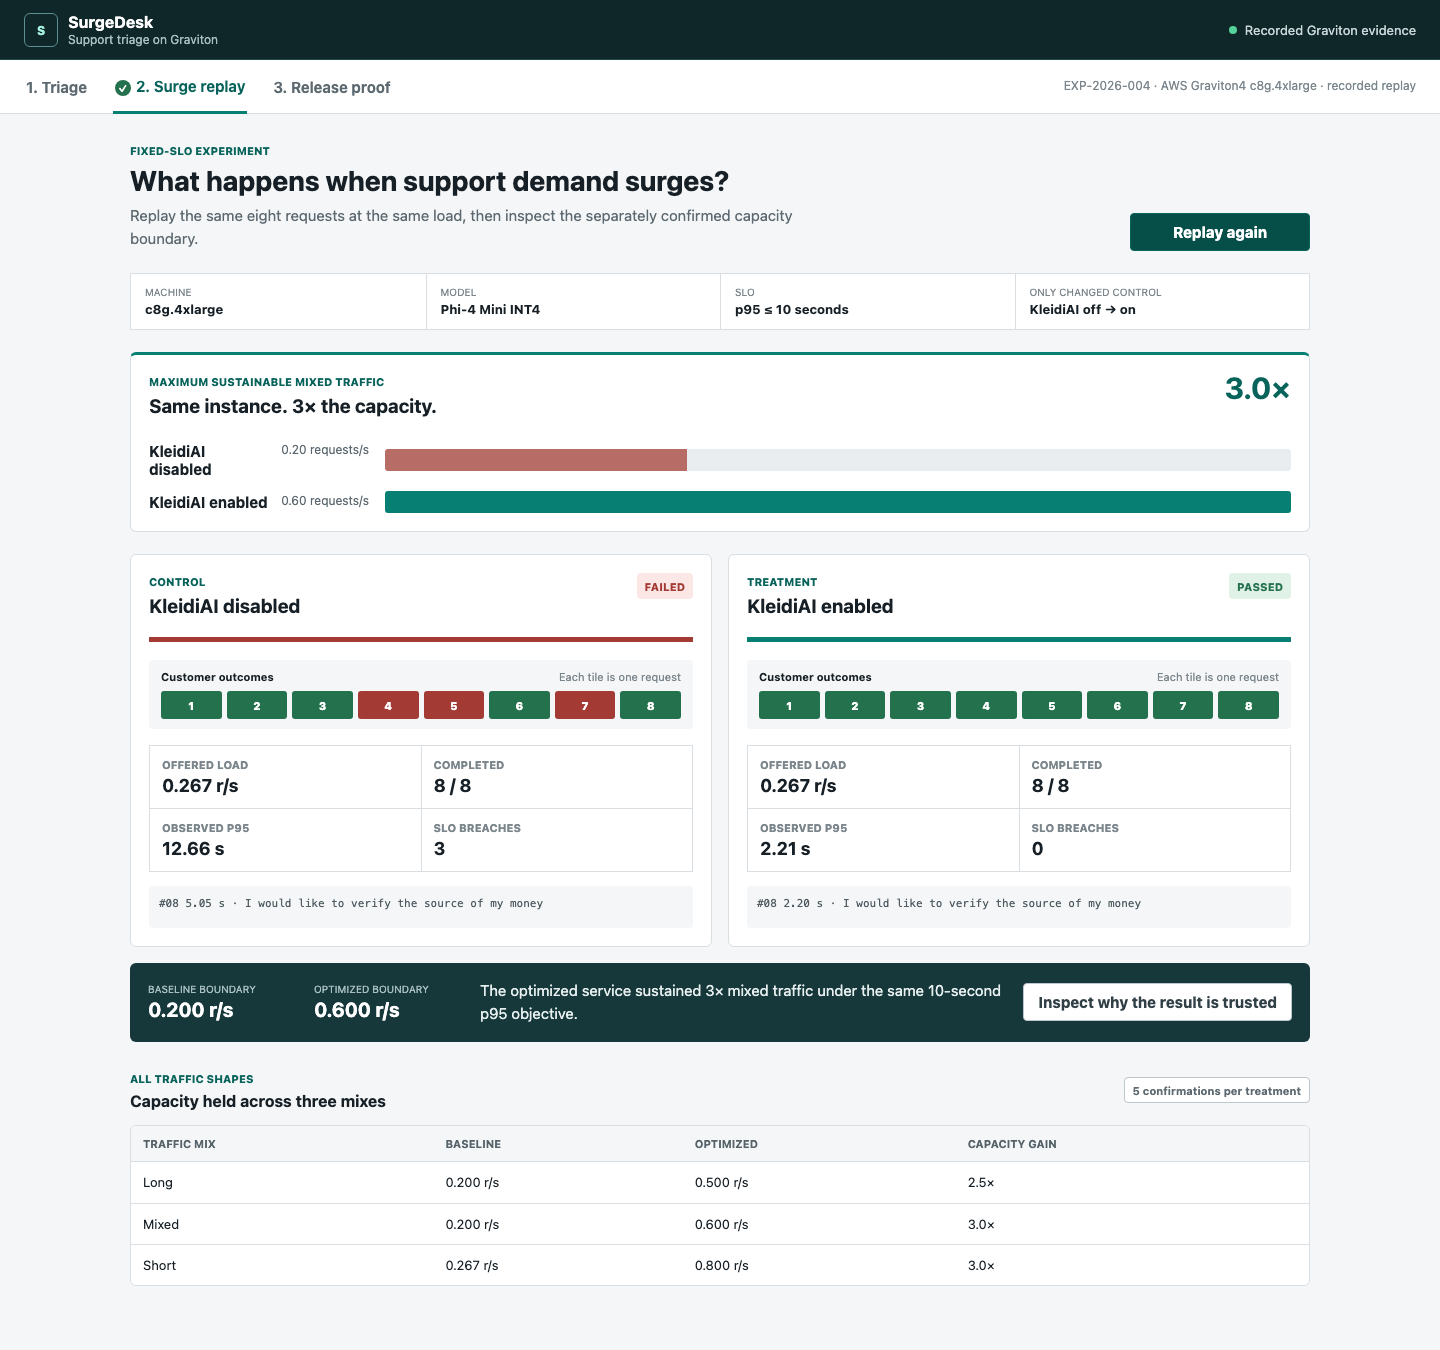
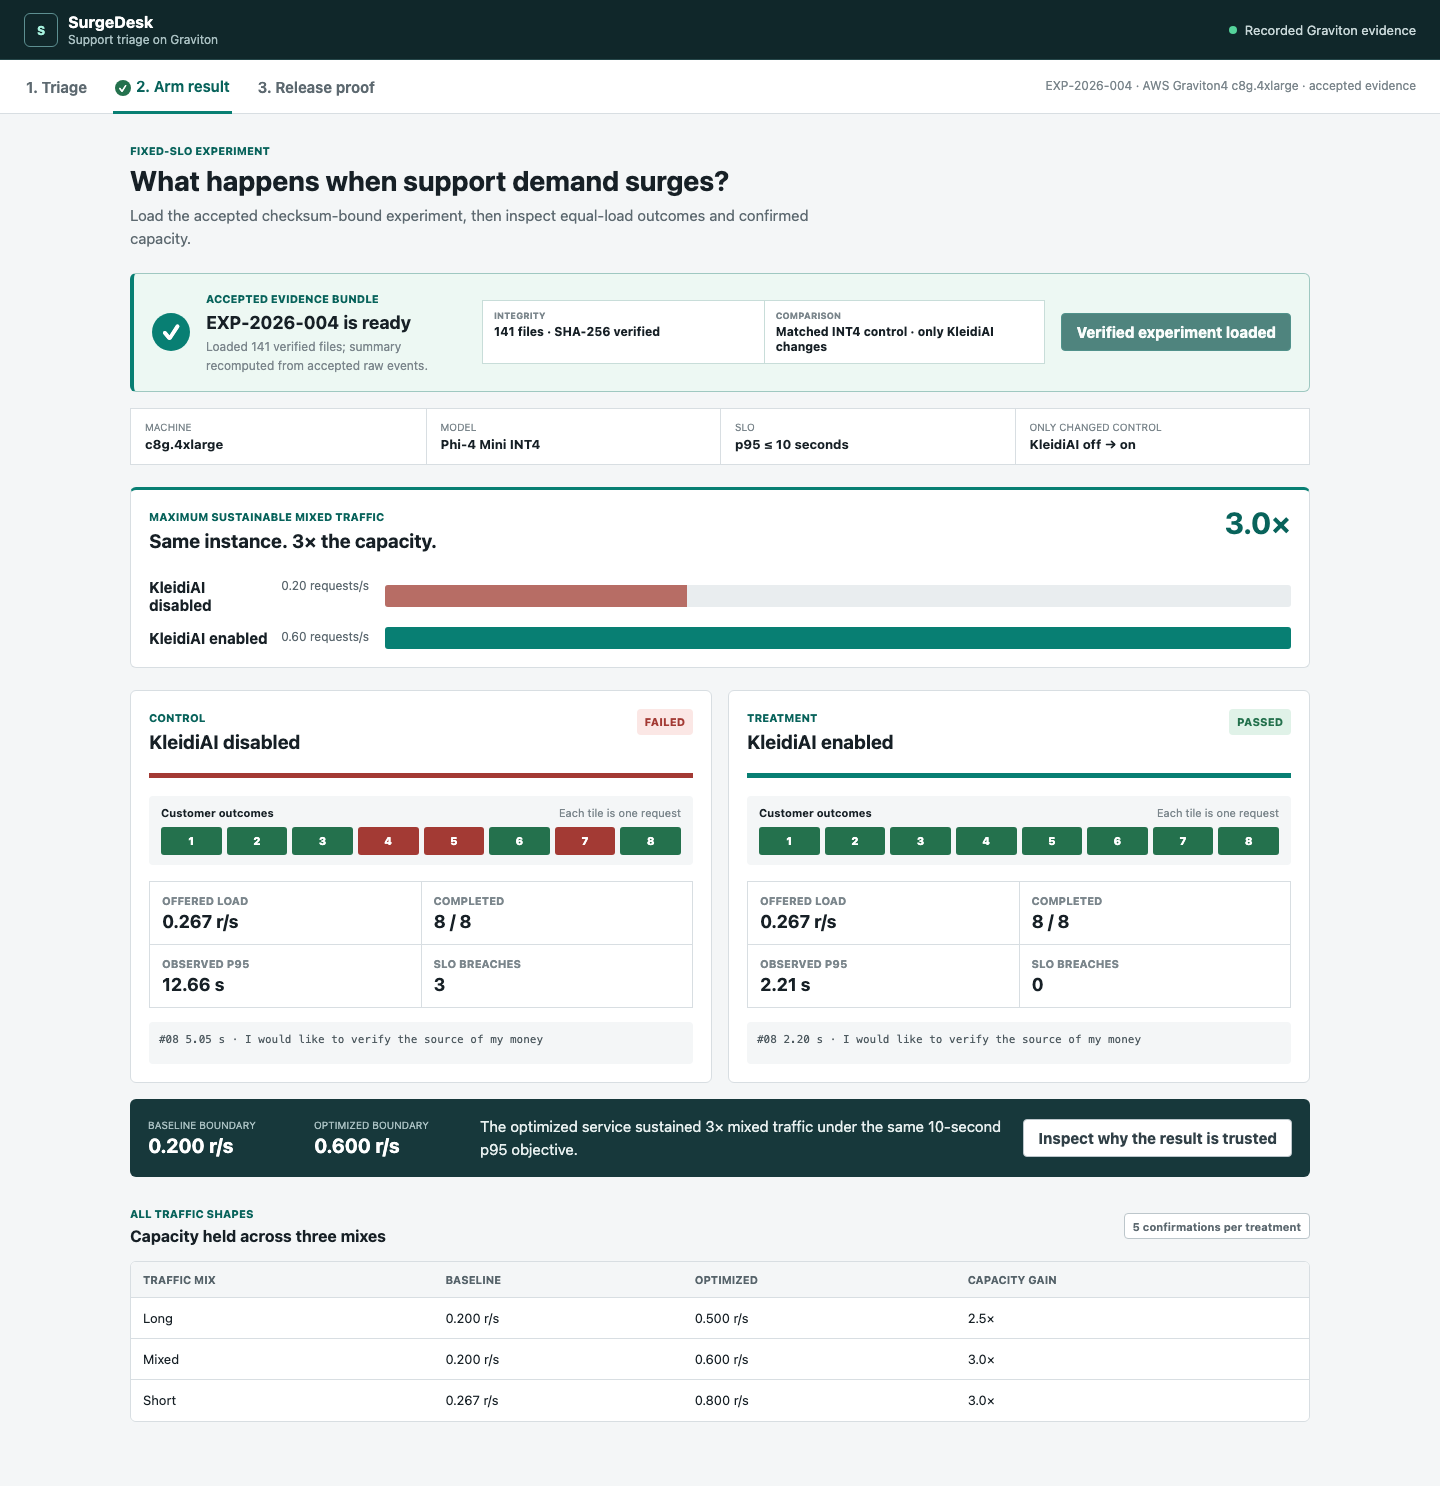
feat: reveal accepted experiment evidence
Replace the staged replay animation with an explicit, instantaneous load of checksum-verified EXP-2026-004 evidence. Keep the Arm result hidden until the presenter loads it, expose matched-control provenance, and align the recording script and judge guide with the honest demo flow.

diff --git a/surgedesk/index.html b/surgedesk/index.html
@@ -27,7 +27,7 @@
   <nav class="view-tabs" aria-label="SurgeDesk views">
     <div role="tablist" aria-label="Demo workflow">
       <button id="tab-workspace" role="tab" aria-selected="true" aria-controls="view-workspace" data-view="workspace">1. Triage</button>
-      <button id="tab-surge" role="tab" aria-selected="false" aria-controls="view-surge" data-view="surge">2. Surge replay</button>
+      <button id="tab-surge" role="tab" aria-selected="false" aria-controls="view-surge" data-view="surge">2. Arm result</button>
       <button id="tab-proof" role="tab" aria-selected="false" aria-controls="view-proof" data-view="proof">3. Release proof</button>
     </div>
     <p id="demo-source">Loading accepted evidence…</p>
@@ -116,7 +116,7 @@
 
           <div id="review-complete" class="workflow-handoff" role="status" hidden>
             <div><strong id="review-complete-title">Ticket routed</strong><span>Decision recorded in the audit trail.</span></div>
-            <button class="secondary-button" type="button" data-go-surge>Continue to surge replay</button>
+            <button class="secondary-button" type="button" data-go-surge>Continue to Arm result</button>
           </div>
 
           <section class="recent-section" aria-labelledby="recent-title">
@@ -146,10 +146,23 @@
           <div>
             <p class="eyebrow">Fixed-SLO experiment</p>
             <h1>What happens when support demand surges?</h1>
-            <p>Replay the same eight requests at the same load, then inspect the separately confirmed capacity boundary.</p>
+            <p>Load the accepted checksum-bound experiment, then inspect equal-load outcomes and confirmed capacity.</p>
           </div>
-          <button id="run-replay" class="primary-button replay-button" type="button">Run recorded surge</button>
         </header>
+
+        <section id="evidence-loader" class="evidence-loader" aria-labelledby="evidence-loader-title">
+          <div class="evidence-seal" aria-hidden="true">✓</div>
+          <div class="evidence-identity">
+            <p class="eyebrow">Accepted evidence bundle</p>
+            <h2 id="evidence-loader-title"><span id="evidence-experiment-id">—</span> is ready</h2>
+            <p id="evidence-load-note" aria-live="polite">The browser will derive this view from checked-in raw request events. It will not simulate a live benchmark.</p>
+          </div>
+          <dl class="evidence-facts">
+            <div><dt>Integrity</dt><dd id="evidence-checksum-status">Verifying…</dd></div>
+            <div><dt>Comparison</dt><dd id="evidence-comparison">Matched control</dd></div>
+          </dl>
+          <button id="load-experiment" class="primary-button replay-button" type="button">Load verified experiment</button>
+        </section>
 
         <div class="experiment-strip" aria-label="Experiment controls">
           <div><span>Machine</span><strong id="experiment-machine">c8g.4xlarge</strong></div>
@@ -158,6 +171,7 @@
           <div><span>Only changed control</span><strong>KleidiAI off → on</strong></div>
         </div>
 
+        <div id="experiment-results" class="experiment-results" hidden>
         <section class="capacity-reveal" aria-labelledby="capacity-title">
           <header class="section-heading">
             <div>
@@ -195,7 +209,7 @@
               <div><dt>Observed p95</dt><dd id="baseline-p95">—</dd></div>
               <div><dt>SLO breaches</dt><dd id="baseline-breaches">0</dd></div>
             </dl>
-            <p id="baseline-event" class="event-line">Run not started.</p>
+            <p id="baseline-event" class="event-line">Accepted run not loaded.</p>
           </article>
 
           <article class="run-panel optimized-run" aria-labelledby="optimized-title">
@@ -214,7 +228,7 @@
               <div><dt>Observed p95</dt><dd id="optimized-p95">—</dd></div>
               <div><dt>SLO breaches</dt><dd id="optimized-breaches">0</dd></div>
             </dl>
-            <p id="optimized-event" class="event-line">Run not started.</p>
+            <p id="optimized-event" class="event-line">Accepted run not loaded.</p>
           </article>
         </div>
 
@@ -237,6 +251,7 @@
             </table>
           </div>
         </section>
+        </div>
       </div>
     </section>
 

diff --git a/surgedesk/styles.css b/surgedesk/styles.css
@@ -158,6 +158,17 @@ tbody tr:last-child td { border-bottom: 0; }
 .page-heading h1 { font-size: 28px; }
 .page-heading p:last-child { max-width: 680px; margin: 0; }
 .replay-button { min-width: 180px; }
+.evidence-loader { display: grid; grid-template-columns: auto minmax(260px, 1fr) minmax(300px, auto) auto; align-items: center; gap: 16px; margin-bottom: 16px; padding: 16px 18px; border: 1px solid #9fc8c1; border-left: 4px solid var(--teal); background: #f4fbf9; border-radius: var(--radius); }
+.evidence-loader.loaded { background: #edf8f3; }
+.evidence-seal { display: grid; width: 38px; height: 38px; place-items: center; color: #fff; background: var(--teal); border-radius: 50%; font-size: 22px; font-weight: 800; }
+.evidence-identity h2 { margin: 2px 0 4px; font-size: 18px; }
+.evidence-identity > p:last-child { max-width: 580px; margin: 0; color: var(--subtle); font-size: 12px; }
+.evidence-facts { display: grid; grid-template-columns: repeat(2, minmax(130px, 1fr)); margin: 0; border: 1px solid #c8ddd9; background: #fff; }
+.evidence-facts div { min-width: 0; padding: 9px 11px; }
+.evidence-facts div + div { border-left: 1px solid #c8ddd9; }
+.evidence-facts dt { color: var(--subtle); font-size: 9px; text-transform: uppercase; }
+.evidence-facts dd { margin: 3px 0 0; font-size: 12px; font-weight: 750; overflow-wrap: anywhere; }
+.experiment-results[hidden] { display: none; }
 .experiment-strip { display: grid; grid-template-columns: repeat(4, 1fr); margin-bottom: 22px; border: 1px solid var(--line); background: #fff; }
 .experiment-strip div { min-width: 0; padding: 12px 14px; }
 .experiment-strip div + div { border-left: 1px solid var(--line); }
@@ -243,6 +254,8 @@ code, pre { font-family: ui-monospace, SFMono-Regular, Menlo, monospace; }
 .fatal-error { width: min(720px, calc(100% - 32px)); margin: 48px auto; padding: 24px; background: var(--red-soft); border: 1px solid #e0a39e; border-radius: var(--radius); }
 
 @media (max-width: 900px) {
+  .evidence-loader { grid-template-columns: auto 1fr; }
+  .evidence-facts, .evidence-loader .replay-button { grid-column: 2; }
   .workspace-shell { grid-template-columns: 210px minmax(0, 1fr); }
   .intake-workspace { padding: 24px; }
   .review-details { grid-template-columns: 1fr; gap: 10px; }
@@ -263,6 +276,11 @@ code, pre { font-family: ui-monospace, SFMono-Regular, Menlo, monospace; }
 }
 
 @media (max-width: 680px) {
+  .evidence-loader { grid-template-columns: 1fr; }
+  .evidence-seal { display: none; }
+  .evidence-facts, .evidence-loader .replay-button { grid-column: auto; }
+  .evidence-facts { grid-template-columns: 1fr; }
+  .evidence-facts div + div { border-top: 1px solid #c8ddd9; border-left: 0; }
   .app-header { height: auto; min-height: 60px; padding: 10px 14px; }
   .environment-status { font-size: 11px; }
   .view-tabs { min-height: 50px; padding: 0 12px; overflow-x: auto; }

diff --git a/src/armproof/demo/surgedesk.py b/src/armproof/demo/surgedesk.py
@@ -9,6 +9,7 @@ from pathlib import Path
 from typing import Any
 
 from armproof.demo.queue_guard import QueueGuard
+from armproof.evidence import verify_checksum_ledger
 
 
 DEMO_CASE_IDS = (
@@ -124,7 +125,17 @@ def _queue_guard(root: Path) -> tuple[QueueGuard, list[dict[str, str]]]:
 
 
 def build_surgedesk_payload(root: Path) -> dict[str, Any]:
-    evidence = root / "ops/evidence/EXP-2026-004/accepted/evidence/capacity/experiment"
+    accepted_evidence = root / "ops/evidence/EXP-2026-004/accepted/evidence"
+    checksum_result = verify_checksum_ledger(
+        accepted_evidence / "SHA256SUMS",
+        accepted_evidence,
+    )
+    if not checksum_result.passed:
+        raise ValueError(
+            "accepted evidence failed checksum verification: "
+            f"missing={checksum_result.missing}, mismatched={checksum_result.mismatched}"
+        )
+    evidence = accepted_evidence / "capacity/experiment"
     summary = _load_json(evidence / "summary.json")
     quality_enabled = _load_json(evidence / "quality/kleidiai-enabled.json")
     quality_disabled = _load_json(evidence / "quality/kleidiai-disabled.json")
@@ -216,7 +227,7 @@ def build_surgedesk_payload(root: Path) -> dict[str, Any]:
         "product": {
             "name": "SurgeDesk",
             "description": "Human-confirmed support triage on an Arm-optimized cloud AI service.",
-            "demo_mode": "recorded_evidence_replay",
+            "demo_mode": "accepted_evidence_load",
         },
         "routing_cases": routing_cases,
         "capacity": {"slo_ms": 10_000, "mixes": mixes},
@@ -274,6 +285,12 @@ def build_surgedesk_payload(root: Path) -> dict[str, Any]:
         },
         "provenance": {
             "experiment_id": "EXP-2026-004",
+            "evidence": {
+                "checksum_verified": checksum_result.passed,
+                "checksummed_files": checksum_result.checked,
+                "comparison": "matched_control",
+                "only_changed_control": "mlas.disable_kleidiai",
+            },
             "dataset": "BANKING77",
             "dataset_license": "CC-BY-4.0",
             "model": "Phi-4 Mini",

diff --git a/tests/surgedesk/test_demo_data.py b/tests/surgedesk/test_demo_data.py
@@ -59,6 +59,13 @@ class SurgeDeskPayloadTests(unittest.TestCase):
         self.assertFalse(proof["kleidiai_disabled_callchains"])
         self.assertEqual(proof["instance"], "c8g.4xlarge")
 
+    def test_demo_identifies_a_verified_matched_control_bundle(self) -> None:
+        evidence = self.payload["provenance"]["evidence"]
+        self.assertTrue(evidence["checksum_verified"])
+        self.assertEqual(evidence["checksummed_files"], 141)
+        self.assertEqual(evidence["comparison"], "matched_control")
+        self.assertEqual(evidence["only_changed_control"], "mlas.disable_kleidiai")
+
 
 if __name__ == "__main__":
     unittest.main()

diff --git a/submission/DEMO_SCRIPT.md b/submission/DEMO_SCRIPT.md
@@ -1,7 +1,7 @@
 # Three-Minute Demo Script
 
-Target duration: **2:40-2:50**. Do not exceed 3:00. Do not wait for the surge
-animation during the recording.
+Target duration: **2:40-2:50**. Do not exceed 3:00. Every visible result must
+be loaded or validated during the recording.
 
 ## Prepare Before Recording
 
@@ -12,18 +12,15 @@ animation during the recording.
    python3.12 scripts/serve_surgedesk.py --port 8765
    ```
 
-3. Open `http://127.0.0.1:8765/surgedesk/#surge`.
-4. Click **Run recorded surge** and wait for it to finish.
-5. Open `http://127.0.0.1:8765/surgedesk/#triage` in the same tab. The completed
-   surge state remains in memory.
-6. Select **Guard intervention** but do not load the suggestion yet.
-7. Open a terminal beside the browser with this command already typed:
+3. Open `http://127.0.0.1:8765/surgedesk/#triage`.
+4. Select **Guard intervention** but do not load the suggestion yet.
+5. Open a terminal beside the browser with this command already typed:
 
    ```bash
    armproof ci examples/armproof-reference/armproof.json
    ```
 
-8. Close notifications, hide bookmarks and enable Do Not Disturb. Record only
+6. Close notifications, hide bookmarks and enable Do Not Disturb. Record only
    the browser and terminal. Do not use copyrighted music.
 
 ## Exact Recording
@@ -54,23 +51,25 @@ the first viewport.
 > two-stage route reaches 86.75 percent, up 12.34 points. Every route remains
 > human-confirmed; the app shows the model's limit instead of hiding it.
 
-### 0:43-1:22 - The Arm Result, Without Waiting
+### 0:43-1:25 - The Arm Result, Loaded Honestly
 
-**Do:** Click **2. Surge replay**. The result is already complete. Point in
-this order: experiment strip, the two eight-request rows, p95 cells, 3.0x
-headline, and the three traffic-mix rows.
+**Do:** Click **2. Arm result**. Point briefly to `EXP-2026-004`, **141 files ·
+SHA-256 verified**, and **Matched INT4 control**. Click **Load verified
+experiment**. Point in this order: experiment strip, equal-load request rows,
+p95 cells, 3.0x headline and the three traffic-mix rows.
 
 **Say:**
 
-> Now the optimization. This is one c8g.4xlarge, one Phi-4 Mini INT4 model,
-> one ONNX Runtime GenAI build, 16 threads and the same 10-second p95 objective.
-> The declared control is only KleidiAI off versus on. At the same offered
-> load, disabled misses the objective for three customers at 12.66 seconds
-> p95. Enabled misses none at 2.21 seconds. Five confirmations at each boundary
-> show mixed capacity rising from 0.20 to 0.60 requests per second. Short is
-> also three times, and long is two and a half times.
+> Now the optimization. I am loading accepted experiment EXP-2026-004, not
+> pretending to run a benchmark in three seconds. This view is recomputed from
+> raw events in a 141-file SHA-256 ledger. The matched deployment is one
+> c8g.4xlarge, one Phi-4 Mini INT4 model, 16 threads and a 10-second p95 target;
+> only KleidiAI changes. At equal load, disabled breaches the target three
+> times at 12.66 seconds p95; enabled breaches none at 2.21. Five confirmations
+> per boundary put mixed capacity at 0.20 versus 0.60 requests per second,
+> with 2.5 to 3 times capacity across every traffic shape.
 
-### 1:22-2:06 - Prove It Is Optimization On Arm
+### 1:25-2:08 - Prove It Is Optimization On Arm
 
 **Do:** Click **3. Release proof**. Point to the claim ledger. Scroll once to
 the five-step optimization path and claim boundary.
@@ -85,7 +84,7 @@ the five-step optimization path and claim boundary.
 > schema validity stayed at 100 percent, and a fresh Graviton4 instance
 > reproduced every capacity ratio exactly.
 
-### 2:06-2:36 - Community Artifact
+### 2:08-2:38 - Community Artifact
 
 **Do:** Scroll to **The same decision runs in pull requests** and the
 three-step adoption path. Switch to the terminal and press Enter on the
@@ -100,7 +99,7 @@ prepared command. Let the six passing claims print.
 > exact deployment manifest. Replace the adapter and workload to gate another
 > Arm AI optimization.
 
-### 2:36-2:48 - Close
+### 2:38-2:50 - Close
 
 **Do:** Return to the SurgeDesk proof header or keep the terminal output and
 browser visible side by side.
@@ -115,7 +114,8 @@ Stop recording immediately.
 
 ## Recording Rules
 
-- Do not click **Run recorded surge** during the video. Preload it.
+- Click **Load verified experiment** during the video and call it an accepted
+  evidence load, never a live benchmark.
 - Do not call recorded requests live inference.
 - Do not say Arm certified; say verified by ArmProof.
 - Do not attribute BF16-to-INT4 size or memory gains to KleidiAI.
@@ -125,4 +125,3 @@ Stop recording immediately.
   that suggests a different result.
 - Upload publicly to YouTube or Vimeo and verify playback in a logged-out
   browser.
-

diff --git a/submission/JUDGE_GUIDE.md b/submission/JUDGE_GUIDE.md
@@ -9,8 +9,10 @@ the product demo are checked into the public repository.
 1. Open https://qasimkhan5x.github.io/VerifyLane/surgedesk/#triage.
 2. Choose **Guard intervention**, load the suggestion and inspect the direct
    LLM queue versus the guarded queue.
-3. Open **Surge replay**. The page presents accepted same-load customer
-   outcomes and the separately confirmed 3x capacity boundary.
+3. Open **Arm result**, inspect the accepted experiment identity and checksum
+   status, then click **Load verified experiment**. The page derives same-load
+   customer outcomes and the confirmed 3x capacity boundary from accepted
+   events.
 4. Open **Release proof**. Inspect the claim ledger, optimization path, exact
    deployment and reusable GitHub Action.
 
@@ -83,4 +85,3 @@ the frozen capacity protocol; and the passing deployment is captured in
 ArmProof verifies declared claims for a pinned deployment. It is not an Arm
 certification authority and does not claim that one result generalizes to all
 models or Arm machines.
-

diff --git a/docs/REQUIREMENTS.md b/docs/REQUIREMENTS.md
@@ -71,8 +71,8 @@ reproduced.
 - **FR-13 Reproduction:** provide one documented clean-run command.
 - **FR-14 Application workflow:** route recorded BANKING77 requests through an
   explicit human confirmation or correction step.
-- **FR-15 Surge replay:** animate raw accepted baseline and optimized request
-  samples and converge on their measured p95, breaches and capacity boundary.
+- **FR-15 Arm result:** load raw accepted baseline and optimized request
+  samples and derive their measured p95, breaches and capacity boundary.
 - **FR-16 Evidence-derived demo:** generate all product-demo metrics and cases
   from accepted files; checked output drift must fail CI.
 - **FR-17 Operational quality:** evaluate the five-destination product task on a

diff --git a/docs/SURGEDESK_DEMO.md b/docs/SURGEDESK_DEMO.md
@@ -29,7 +29,8 @@ Direct links are available at `#triage`, `#surge`, and `#proof`.
 1. **Triage:** inspect the held-out `86.75%` queue result, load a recorded
    Phi-4 intent, observe the queue guard rescue or error, then confirm or
    correct the proposed route.
-2. **Surge replay:** replay the same eight requests at `0.267 requests/second`.
+2. **Arm result:** load the accepted checksum-bound experiment, compare the
+   same requests at `0.267 requests/second`, and inspect confirmed capacity.
    Disabled records three SLO breaches and `12.66s` p95; enabled records none
    and `2.21s` p95. The separate five-run boundary is 0.20 versus 0.60.
 3. **Release proof:** inspect the claim ledger, executed Arm path, quality

diff --git a/docs/DEMO_AND_SUBMISSION.md b/docs/DEMO_AND_SUBMISSION.md
@@ -17,8 +17,9 @@ The canonical submission package is [`../submission/README.md`](../submission/RE
 - Upload-ready images: [`../submission/assets/`](../submission/assets/)
 - Final owner checklist: [`../submission/SUBMISSION_CHECKLIST.md`](../submission/SUBMISSION_CHECKLIST.md)
 
-The recording script preloads the accepted surge result before capture. It
-does not spend video time waiting for the replay animation.
+The recording script visibly loads the accepted surge experiment during
+capture. The app explicitly says it derives the view from checksum-bound raw
+events rather than running the Graviton benchmark live.
 
 ## Submission Claim Rules
 

diff --git a/docs/QUICKSTART.md b/docs/QUICKSTART.md
@@ -11,7 +11,7 @@ python3.12 scripts/serve_surgedesk.py --port 8765
 ```
 
 Open `http://127.0.0.1:8765/surgedesk/#triage`. Choose **Guard intervention**
-or **Human correction**, then continue through Surge replay and Release proof.
+or **Human correction**, then continue through Arm result and Release proof.
 The views are directly addressable as `#triage`, `#surge`, and `#proof`. See
 [`SURGEDESK_DEMO.md`](SURGEDESK_DEMO.md) for provenance and narration.
 
